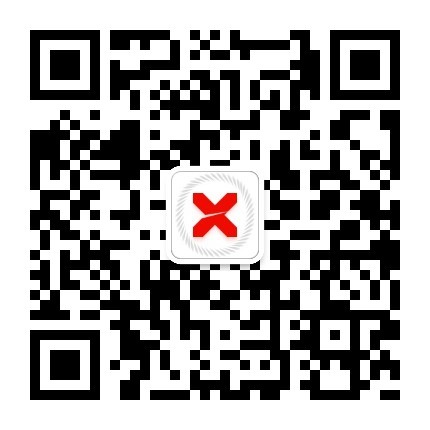
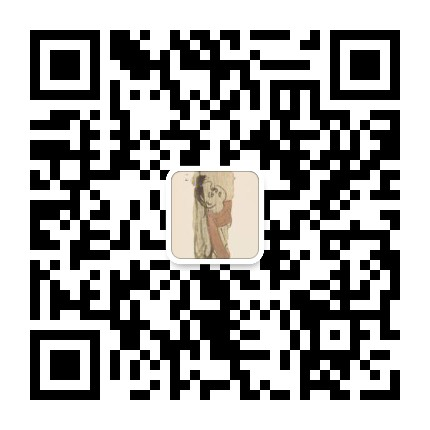
Update UI & Add photos

diff --git a/myworks/data.js b/myworks/data.js
@@ -1,23 +1,31 @@
 var myData={
     designer:{
-        name:'My Portfolio',    // title
+        name:'ROEN - photogallery ',    // title
         phone:'',
         tag:[""],
-        bg:'#c8c8c8',
-        resume:'坐标玉泉',
+        bg:'#555555',
+        resume:'<br>作品集中大部分是使用相机拍摄的照片，也有少量手机摄影作品。<br><br>后期使用Lightroom、Snapseed软件。<br>'
+                + '<br><br><br><br><br><br><br><br><br><br>',
     },
     gallery:[
         {src:"myworks/1.JPG",w:2048,h:2048},
         {src:"myworks/4.JPG",w:1080,h:1620},
         {src:"myworks/2.JPG",w:2048,h:1368},
-        {src:"myworks/12.JPG",w:2048,h:1368},
-        {src:"myworks/7.JPG",w:1620,h:1080},
-        {src:"myworks/11.JPG",w:2048,h:1368},
         {src:"myworks/3.JPG",w:2048,h:2048},
         {src:"myworks/5.JPG",w:2048,h:1536},
         {src:"myworks/6.JPG",w:2048,h:1368},
+        {src:"myworks/98.JPG",w:2048,h:2048},
+        {src:"myworks/7.JPG",w:1620,h:1080},
+        {src:"myworks/99.JPG",w:4240,h:2384},
         {src:"myworks/8.JPG",w:1368,h:2048},
+        {src:"myworks/11.JPG",w:2048,h:1368},
+        {src:"myworks/11-2.JPG",w:4240,h:2832},
+        {src:"myworks/12.JPG",w:2048,h:1368},
         {src:"myworks/10.JPG",w:1368,h:2048},
+        {src:"myworks/DSCF1813.jpg",w:3902,h:2606},
+        {src:"myworks/DSCF1491.JPG",w:4240,h:2832},
         {src:"myworks/9.JPG",w:1368,h:2048},
+        {src:"myworks/IMG_8035.JPG",w:4272,h:2848},
+        {src:"myworks/friends13.JPG",w:5100,h:3400},
     ]
 }

diff --git a/skin/style.css b/skin/style.css
@@ -162,7 +162,7 @@ body, html {
     color: #FFFFFF;
     text-shadow: 0 2px 4px rgba(0, 0, 0, 0.6);
     -webkit-text-shadow: 0 2px 6px rgba(0, 0, 0, 0.2);
-    cursor:help;
+    /* cursor:help; */
 }
 
 /*字体样式定义*/
@@ -171,6 +171,8 @@ body, html {
     line-height: 1.2;
     font-weight: 800;
     letter-spacing:0.04rem;
+    color: rgb(223, 223, 223);
+    /* text-shadow: 3px 3px 0 rgba(0, 0, 0, 0.5); */
 }
 
 .subtitle {
@@ -185,6 +187,7 @@ body, html {
     line-height: 1.2;
     font-weight: 300;
     letter-spacing:0.04rem;
+    color: rgb(230, 230, 230);
 }
 
 .caption {
@@ -192,6 +195,11 @@ body, html {
     line-height: 1.2;
     font-weight: 400;
     letter-spacing:0.04rem;
+}
+
+.bigbig {
+    font-size: 8rem;
+    color: rgb(250, 250, 250);
 }
 
 /*动画定义*/

diff --git a/index.html b/index.html
@@ -29,10 +29,12 @@
     <a>
         <div class="logo-QR">
             <!-- <p class="text-body"><b>余若涵</b></p> -->
-            <p class="caption">WeChat</p>
+            <p class='caption'><b>TEL:</b> +86 199 7527 6133</p>
+            <p class='caption'><b>E-mail:</b> istillwalking@yeah.net</p>
+            <p class="caption"><b>WeChat:</b></p>
             <img src="skin/myWechatQR.jpg"/>
         </div>
-        <p class="logo-name subtitle">Contact Me</p>
+        <p class="logo-name subtitle">/ CONTACT INFO</p>
     </a>
 </div>
 <!-- 大图浮层, 使用photoswipe插件, 需要预置下方页面结构 -->

diff --git a/js/script.js b/js/script.js
@@ -19,7 +19,7 @@ function getProfile() {
 	// + name
 	var profileHtml = "";
 	if (profile.name) {
-		profileHtml += `<h1 id="my-name" class="title">${profile.name}</h1>`;
+		profileHtml += `<br><h1 id="my-name" class="title">${profile.name}</h1> <br><br> <p class="bigbig">[|]</p> <br><br><br>`;
 		// 修改页面的title
 		$('head title').text(profile.name /*+ "-Art on web"*/);
 	};

diff --git a/README.md b/README.md
@@ -1,2 +1,2 @@
 # roenchina.github.io
-My Photography Portfolio
+个人摄影作品集
